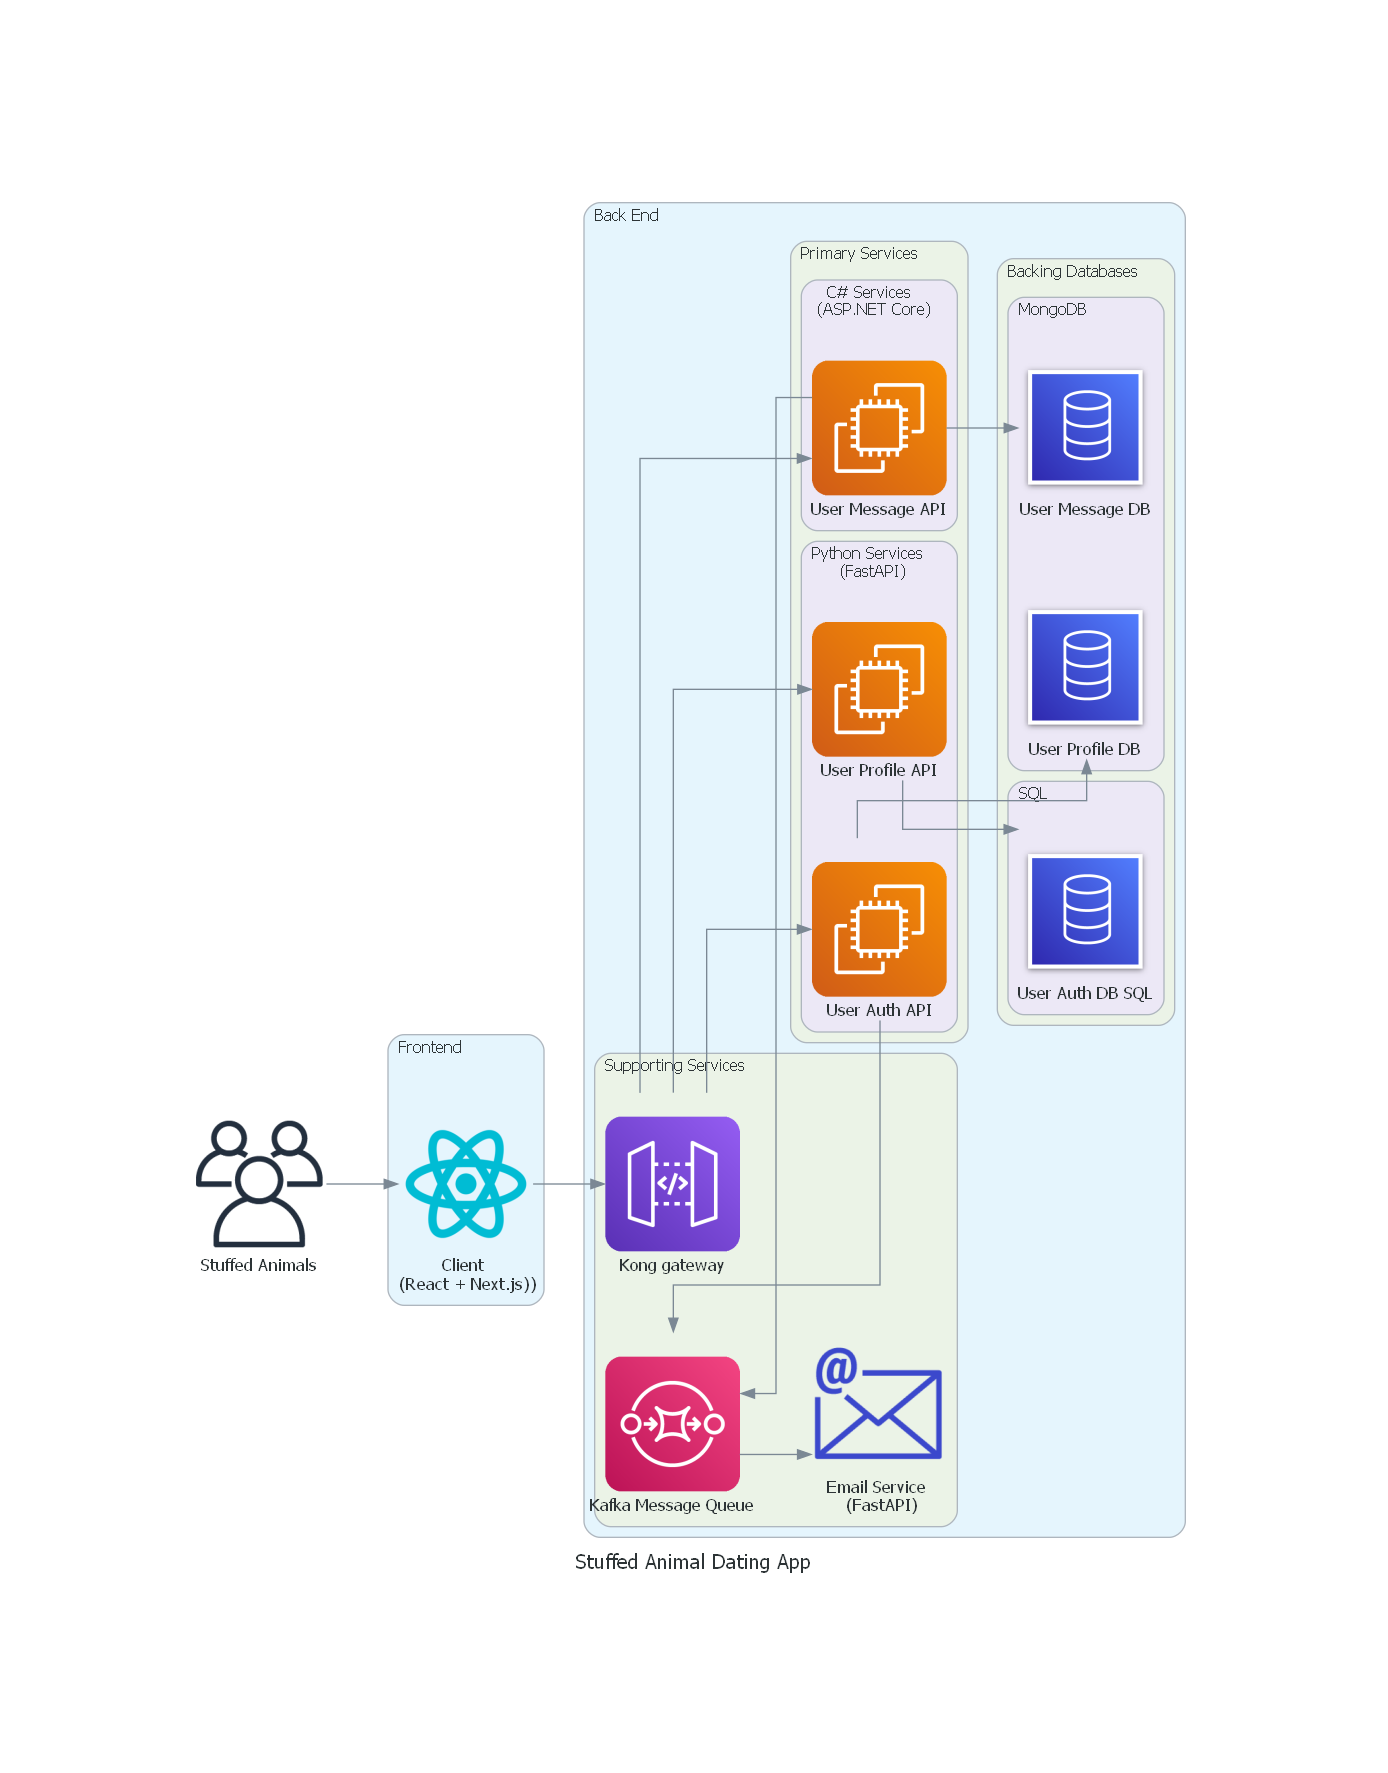
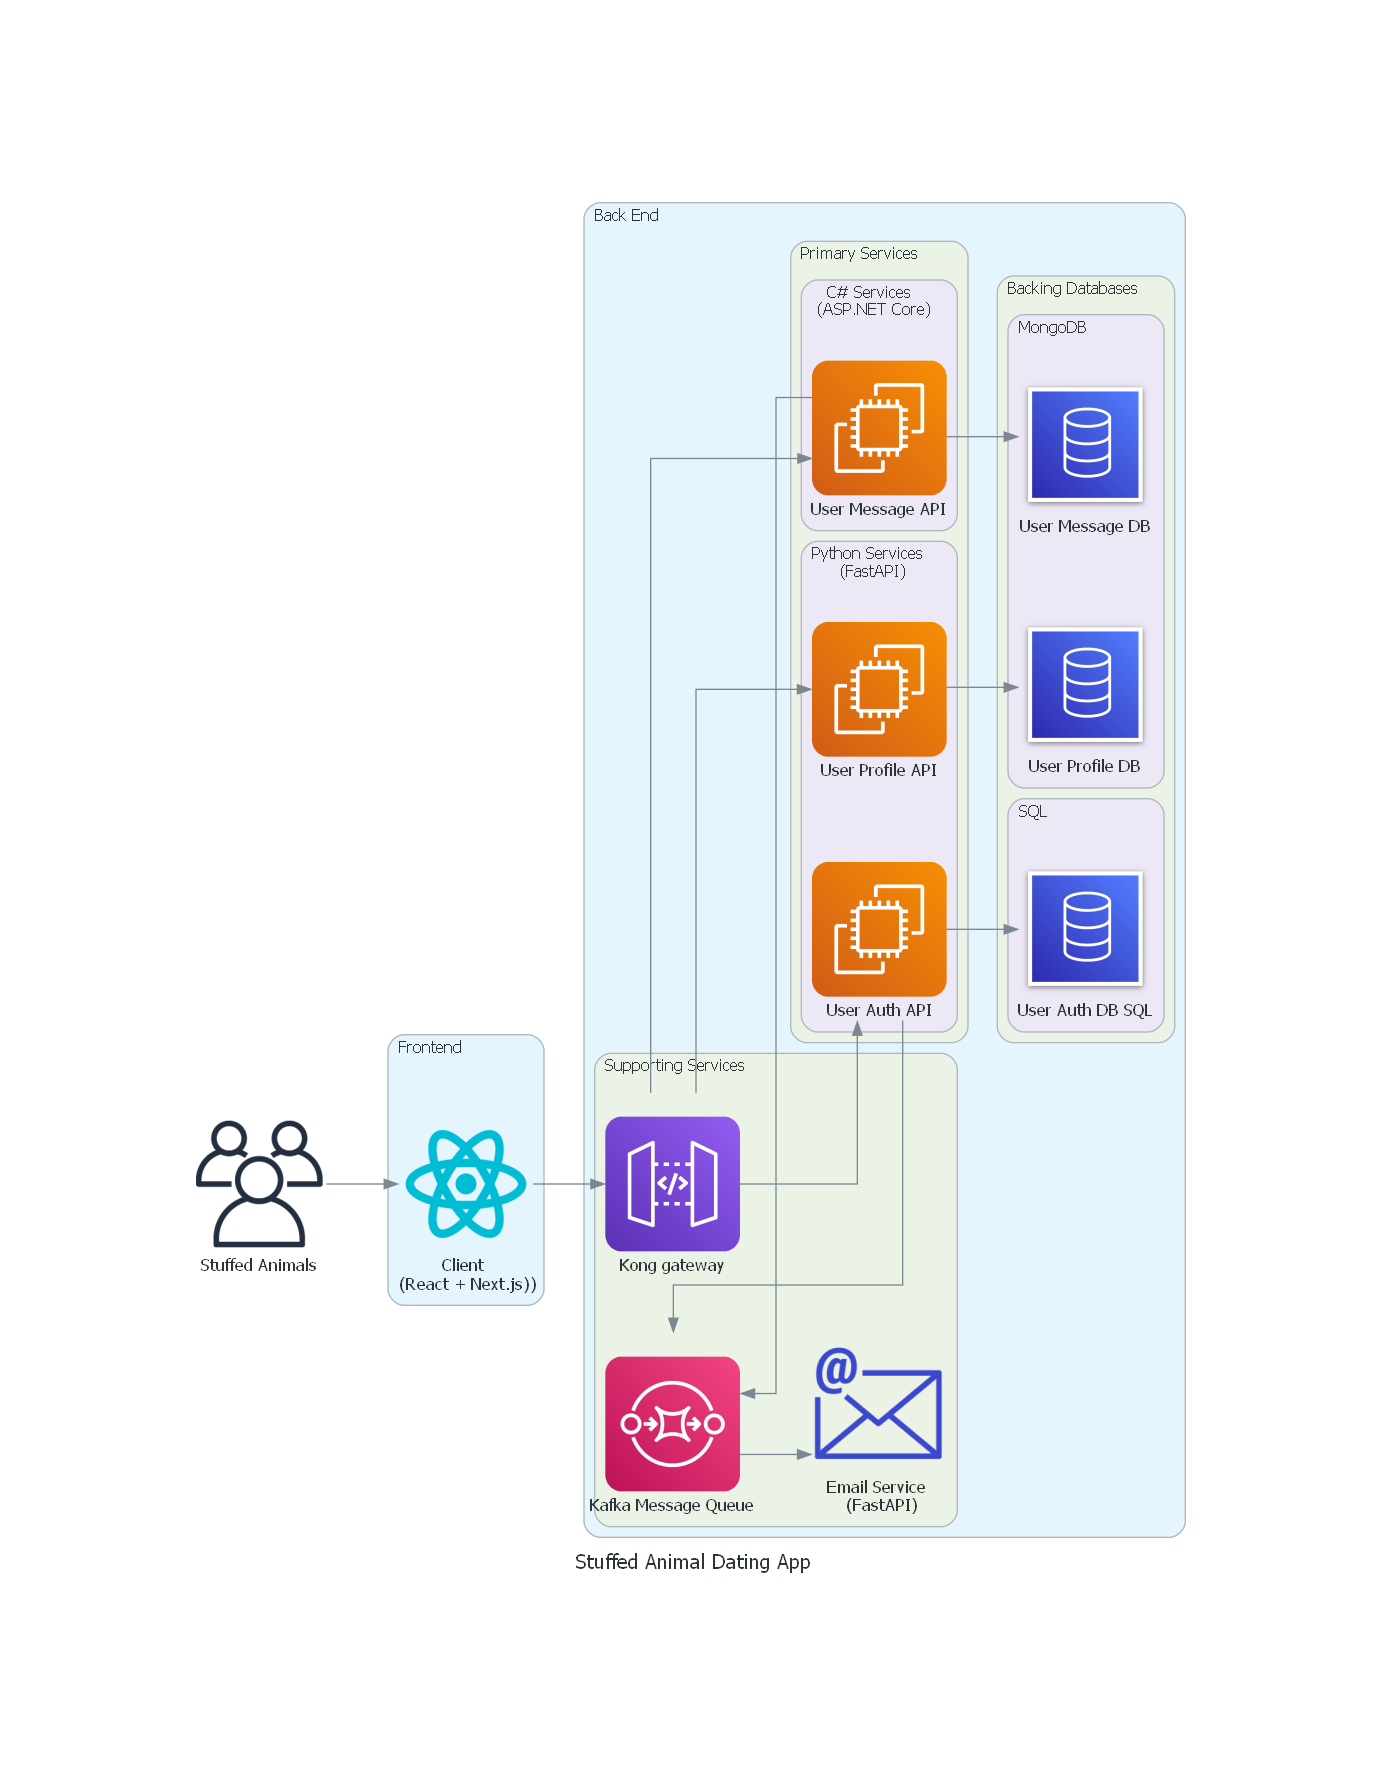
Created docker compose and fixed diagram

Changed region(s): [[0.7125, 0.3412, 0.8365, 0.5894], [0.7125, 0.1551, 0.8365, 0.3102]]

diff --git a/Diagrams/main.py b/Diagrams/main.py
@@ -40,8 +40,8 @@ with Diagram("Stuffed Animal Dating App", show=False):
             gateway = APIGateway("Kong gateway")
             email = SimpleEmailServiceSesEmail("Email Service \n (FastAPI)")
 
-    pythonAPIs[0] >> sqlDB
-    pythonAPIs[1] >> mongoDBs[0]
+    pythonAPIs[1] >> sqlDB
+    pythonAPIs[0] >> mongoDBs[0]
     csharpAPI >> mongoDBs[1]
 
     users >> react >> gateway
